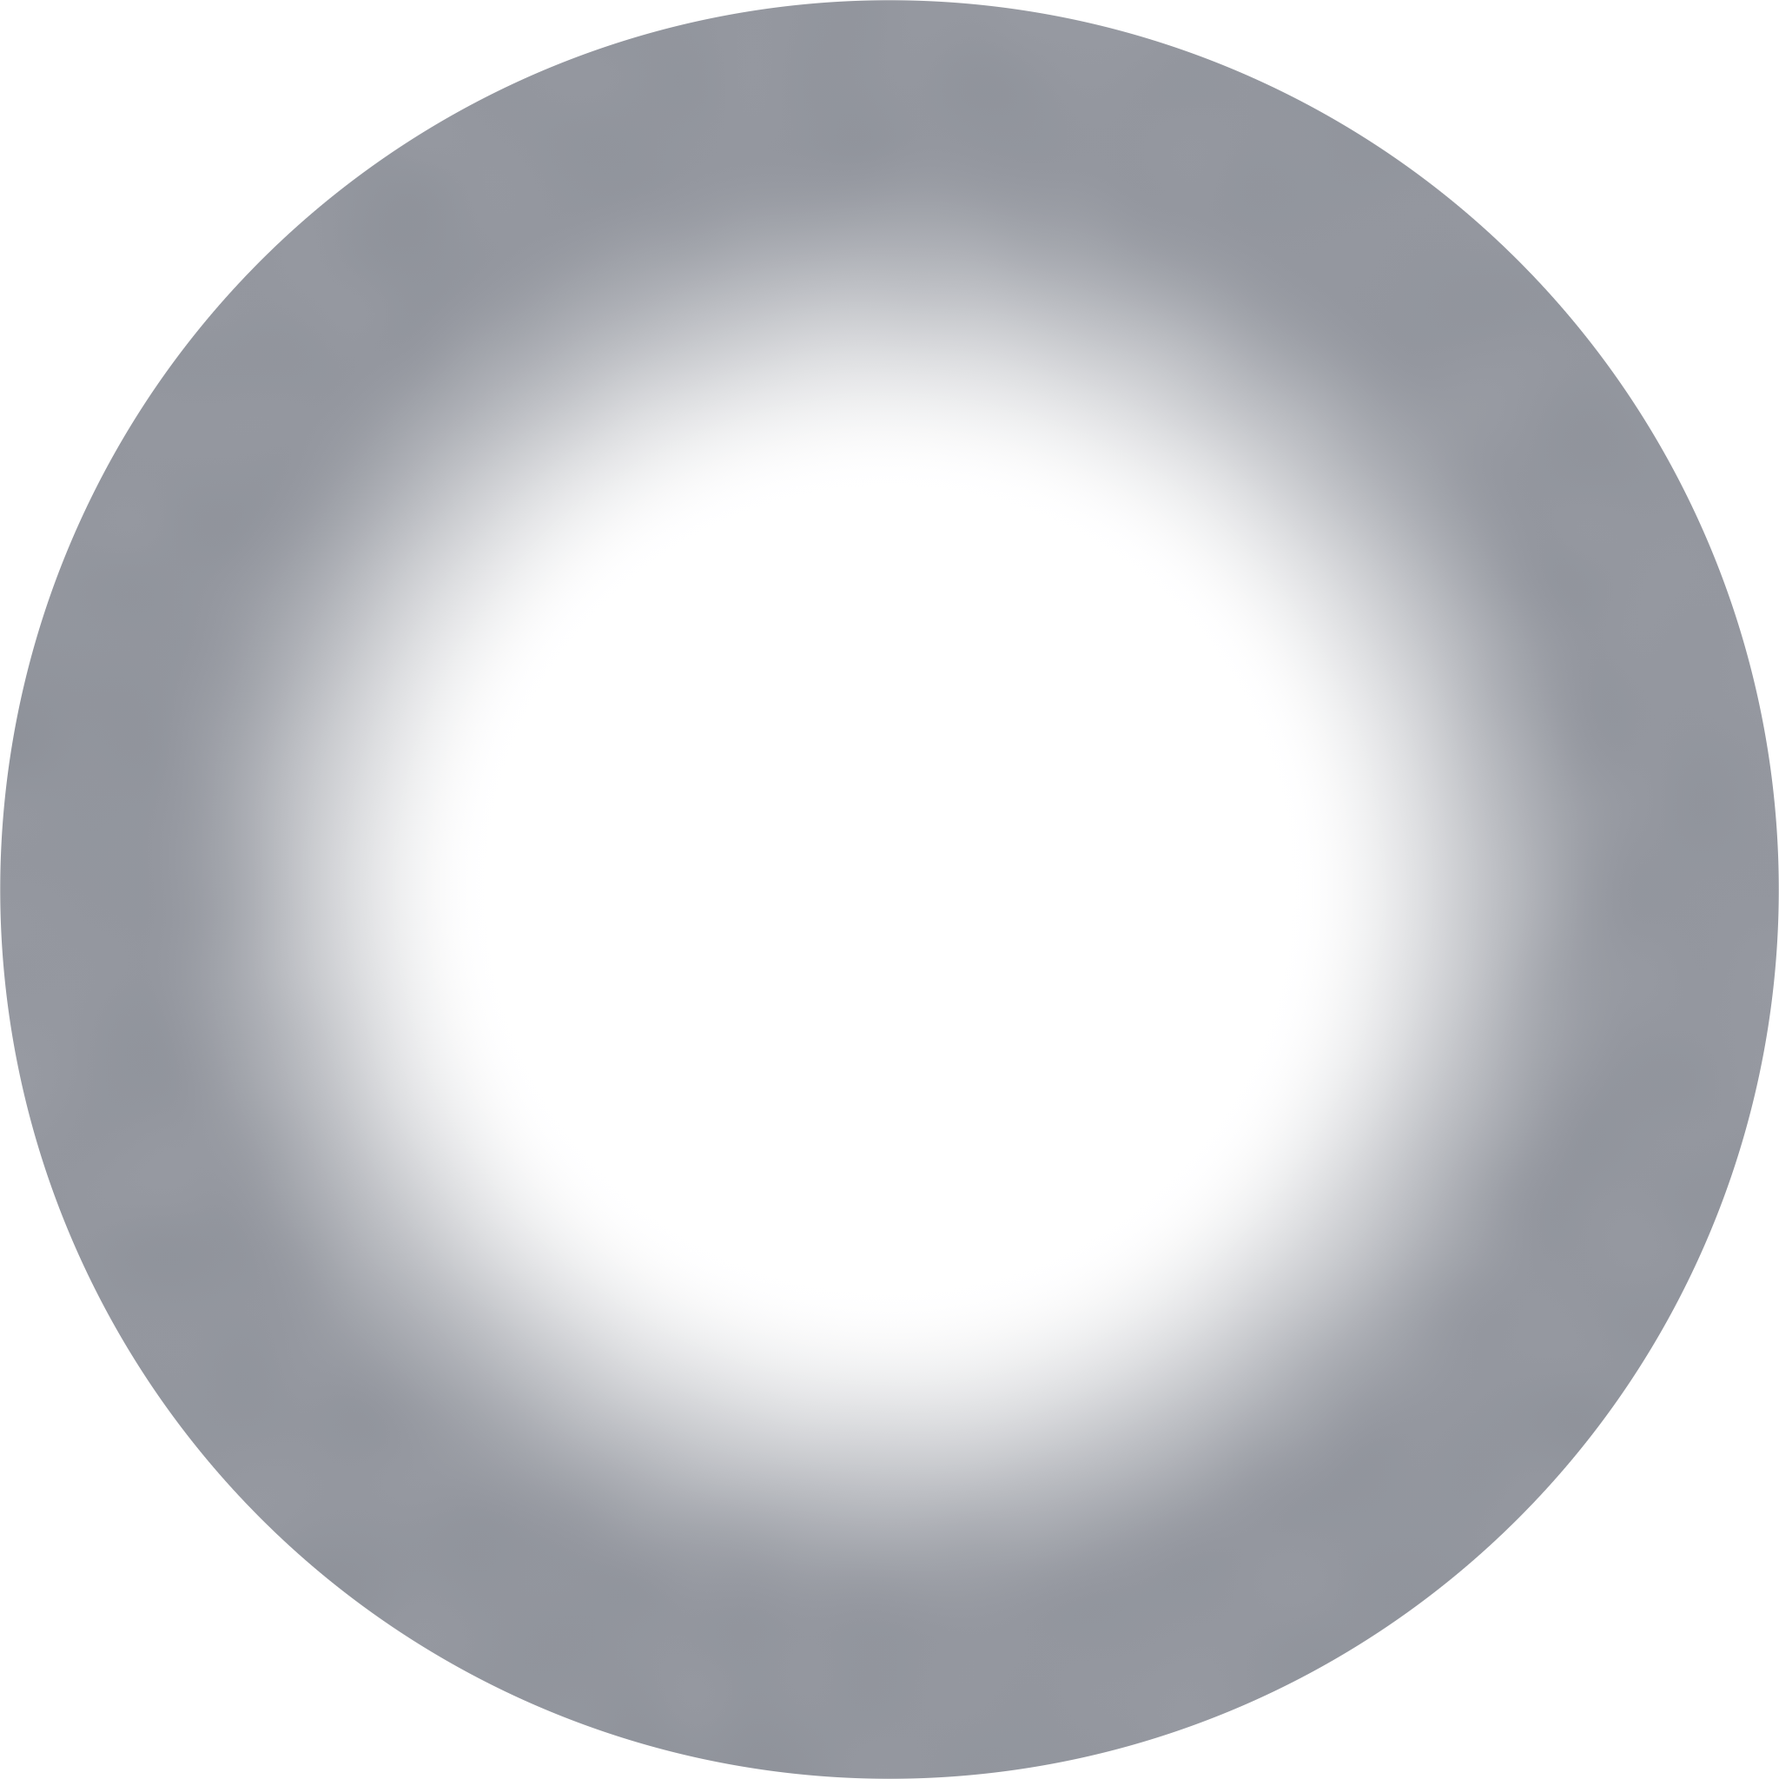
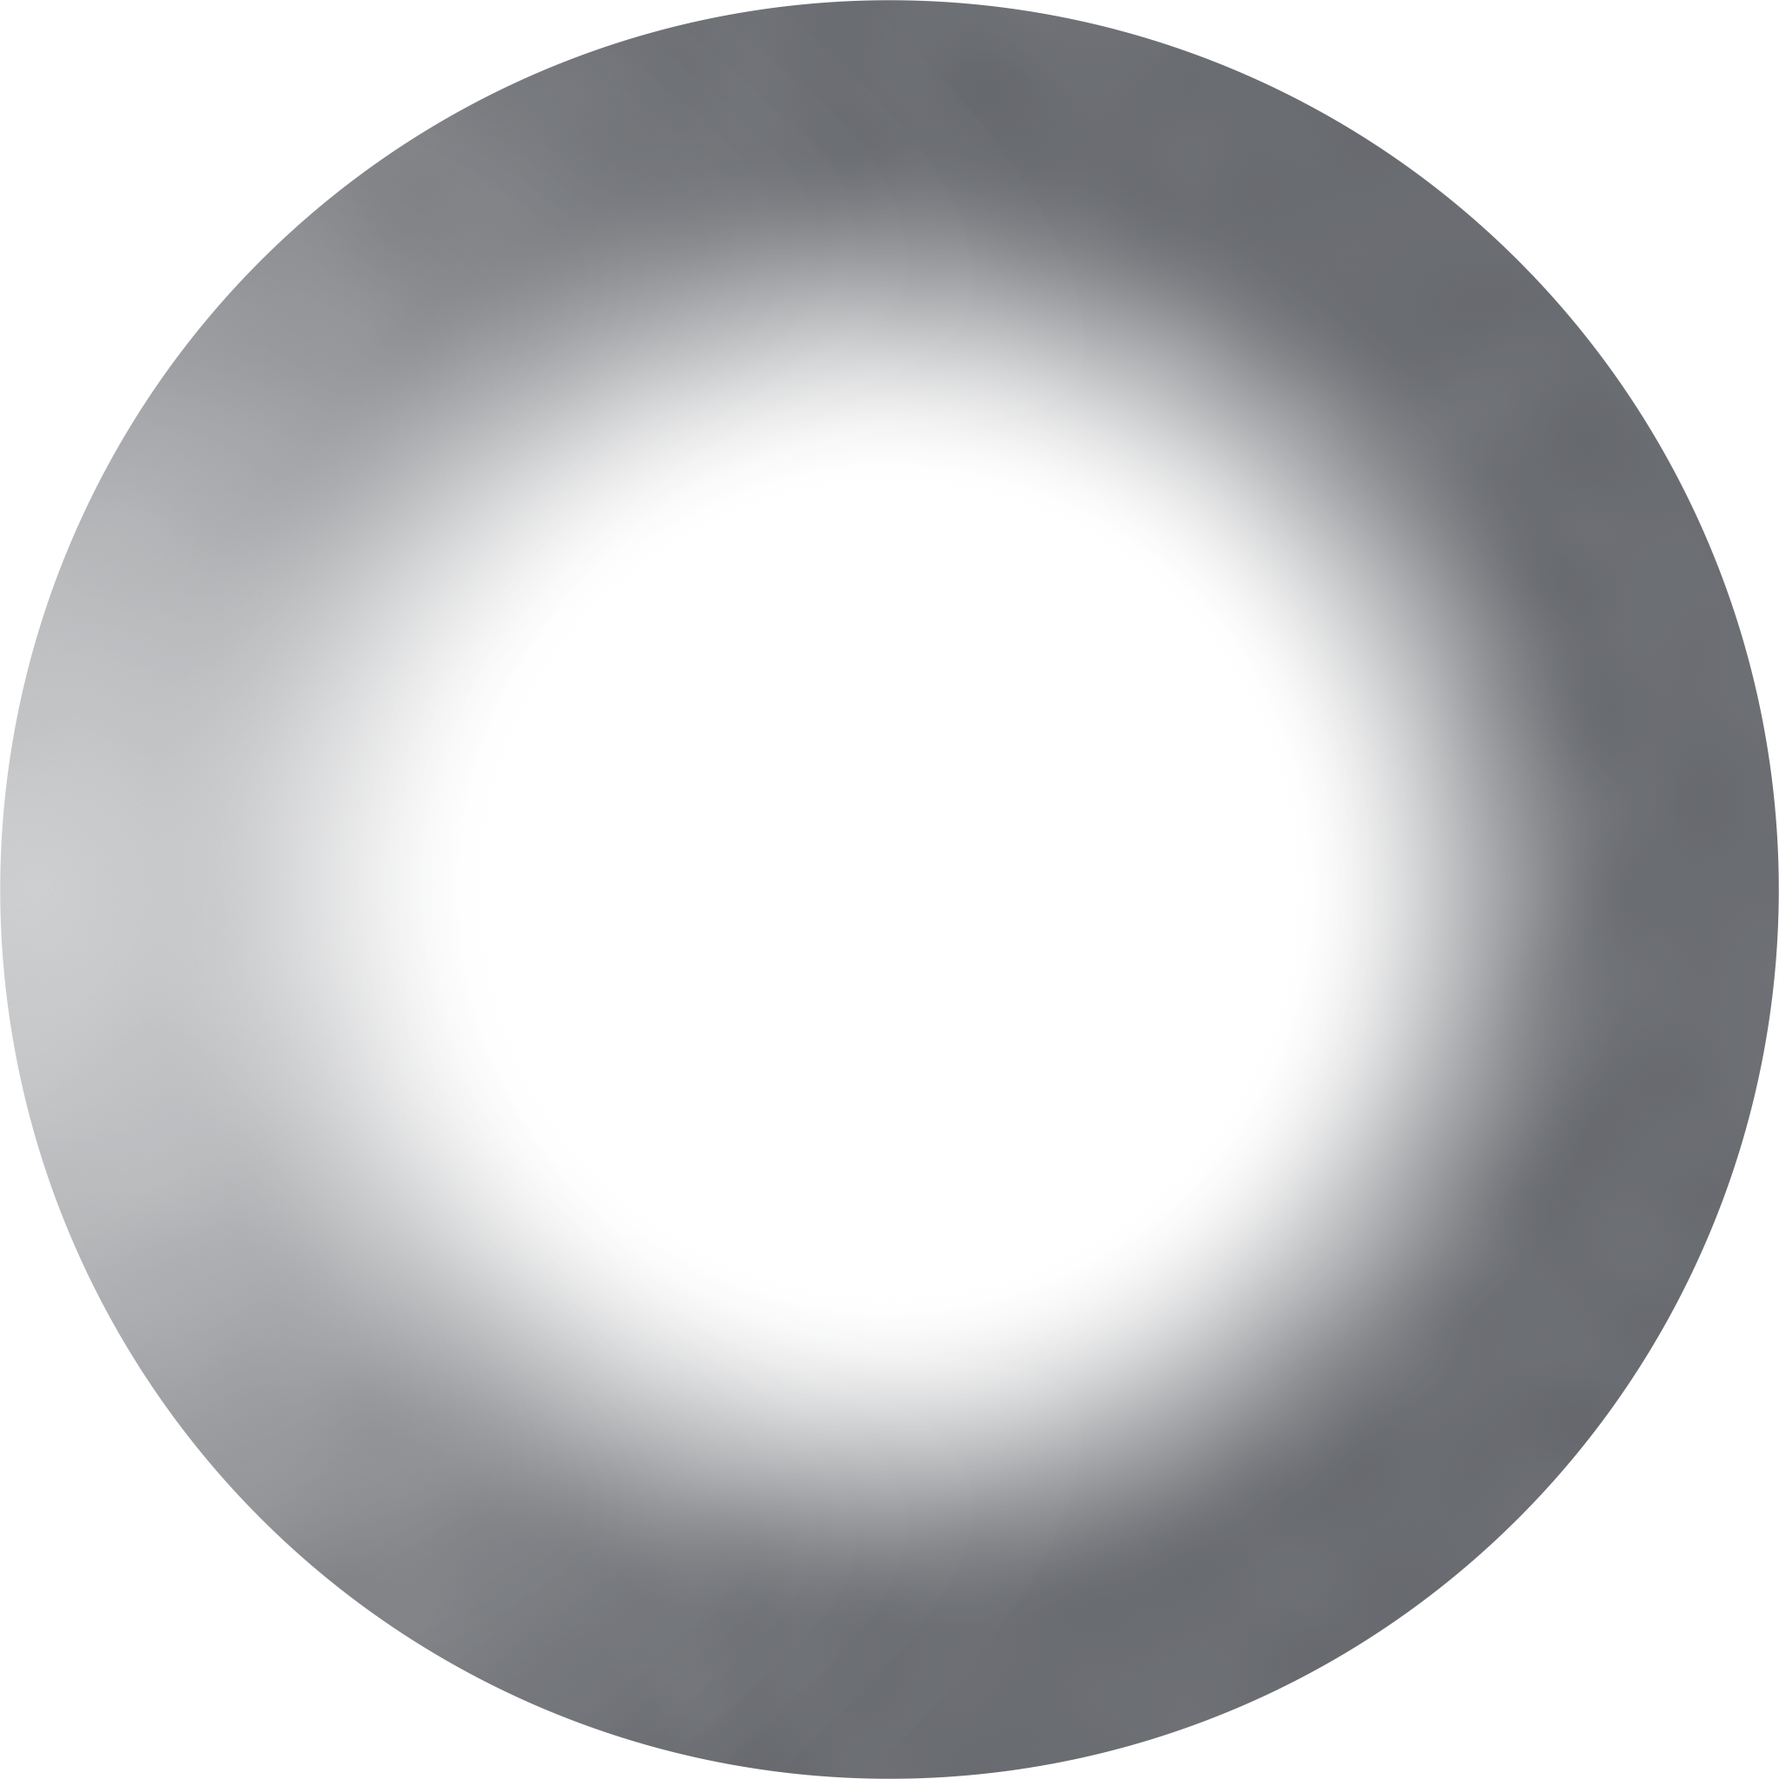
Favourites on the frame dial; dial and heart above the bottom vignette; new frost rim
- Heart (outline) at the top-right of the selected frame's box; filled
  rose when the frame is a favourite. Favourites last for the visit only.
- Bottom-right white outline heart with a red count badge: turns the dial
  to only the favourites and back. Fewer than 6 favourites don't loop round
  the dial (no repeats); frames liked through the assistant count too.
- Dial panel above the assistant overlay (z-45) and the favourites button
  above that (z-50), so the bottom vignette no longer dims them.
- Dial panel uses overflow: clip: a hidden overflow could be scrolled by
  focus / scrollIntoView and slid the whole dial sideways.
- wheel-frost-rim.png: hand-tuned version (rerunning
  scripts/make-wheel-frost.py would overwrite it).

diff --git a/src/components/FrameWheel.tsx b/src/components/FrameWheel.tsx
@@ -23,6 +23,7 @@ import { formatRupees, SHAPE_LABEL } from "@/components/voice/VoiceStageOverlay"
 import { SHOP_HDRI } from "@/lib/hdri";
 import { useTryOnStore } from "@/store/tryOnStore";
 import { useVoiceStore } from "@/store/voiceStore";
+import { useUiStore } from "@/store/uiStore";
 
 /*
  * The frame dial on the right edge of the mirror (the customer stands left).
@@ -38,6 +39,10 @@ import { useVoiceStore } from "@/store/voiceStore";
  */
 
 const N = FRAMES.length;
+/** Heart button on the selected box (px, = Tailwind h-7 w-7). */
+const HEART_SIZE = 28;
+/** Favourites loop round the dial only from this many (no repeats on screen). */
+const FILL_DIAL = 6;
 /** Angle between neighbouring frames on the ring (~22°: five fit on screen). */
 const STEP = 0.39;
 /**
@@ -191,11 +196,17 @@ type Slot = {
   sel: number;
 };
 
-function slotsAt(L: Layout, pos: number): Slot[] {
+/**
+ * The frames on the dial around `pos`. `list` is what the dial walks: the
+ * whole catalogue (loops round), or the customer's favourites — which only
+ * loop when there are enough of them to fill the dial without repeats.
+ */
+function slotsAt(L: Layout, pos: number, list: FrameSku[], wrap: boolean): Slot[] {
   const out: Slot[] = [];
   const base = Math.round(pos);
   for (let j = -3; j <= 3; j++) {
     const idx = base + j;
+    if (!wrap && (idx < 0 || idx >= list.length)) continue;
     const d = idx - pos;
     const ad = Math.abs(d);
     if (ad > 2.6) continue;
@@ -203,7 +214,7 @@ function slotsAt(L: Layout, pos: number): Slot[] {
     const sel = clamp01(1 - ad / 0.55);
     out.push({
       idx,
-      frame: FRAMES[mod(idx, N)],
+      frame: list[mod(idx, list.length)],
       // The selected frame steps out: a little left of the ring, a little bigger.
       x: x - SELECT_SHIFT * sel,
       y,
@@ -615,7 +626,20 @@ export function FrameWheel() {
   const setFrame = useTryOnStore((s) => s.setFrame);
   const setVariant = useTryOnStore((s) => s.setVariant);
   const frame = useTryOnStore((s) => s.selectedFrame());
-  const selIdx = Math.max(0, FRAMES.findIndex((f) => f.id === selectedFrameId));
+
+  // What the dial walks: every frame, or only this visit's favourites.
+  const favourites = useUiStore((s) => s.favouriteFrameIds);
+  const favMode = useUiStore((s) => s.showFavourites);
+  const favSet = useMemo(() => new Set(favourites), [favourites]);
+  const list = useMemo(
+    () => (favMode ? FRAMES.filter((f) => favSet.has(f.id)) : FRAMES),
+    [favMode, favSet],
+  );
+  const n = list.length;
+  // Favourites loop only when they fill the dial (6+) without repeats.
+  const wrap = !favMode || n >= FILL_DIAL;
+  const listIdx = list.findIndex((f) => f.id === selectedFrameId);
+  const selIdx = Math.max(0, listIdx);
 
   // Frames the assistant showed / the customer liked this visit.
   const suggestions = useVoiceStore((s) => s.suggestions);
@@ -660,26 +684,84 @@ export function FrameWheel() {
   /** Turn to an (unwrapped) dial position and put that frame on the face. */
   const commit = useCallback(
     (target: number) => {
-      targetRef.current = target;
+      if (n === 0) return;
+      const t = wrap ? target : Math.min(n - 1, Math.max(0, target));
+      targetRef.current = t;
       animate();
-      const f = FRAMES[mod(target, N)];
+      const f = list[mod(t, n)];
       if (f.id !== useTryOnStore.getState().selectedFrameId) setFrame(f.id);
     },
-    [animate, setFrame],
+    [animate, setFrame, list, n, wrap],
   );
+
+  // Switching between all frames and favourites (or the favourites changing)
+  // renumbers the dial: jump straight to the frame on the face, no spin.
+  const listRef = useRef(list);
+  useEffect(() => {
+    if (listRef.current === list) return;
+    listRef.current = list;
+    posRef.current = targetRef.current = selIdx;
+    setPos(selIdx);
+    invalidateRef.current?.();
+  }, [list, selIdx]);
+
+  // Favourites view: opening it puts the first favourite on (if the frame on
+  // the face isn't one); anything else putting a non-favourite on the face
+  // (the assistant) goes back to all frames.
+  const enteringFavRef = useRef(false);
+  useEffect(() => {
+    if (!favMode) return;
+    if (listIdx >= 0) {
+      enteringFavRef.current = false;
+      return;
+    }
+    if (enteringFavRef.current && n > 0) {
+      enteringFavRef.current = false;
+      setFrame(list[0].id);
+    } else {
+      useUiStore.getState().setShowFavourites(false);
+    }
+  }, [favMode, listIdx, list, n, setFrame]);
+
+  // Frames the customer liked through the assistant are favourites too.
+  useEffect(() => {
+    if (liked.size) useUiStore.getState().addFavourites([...liked]);
+  }, [liked]);
+
+  const toggleFavourite = (frameId: string) => {
+    const ui = useUiStore.getState();
+    // Un-hearting the frame on the face while viewing favourites: step to a
+    // neighbouring favourite first (the store drops back to all frames when
+    // none are left).
+    if (ui.showFavourites && ui.favouriteFrameIds.includes(frameId)) {
+      const i = list.findIndex((f) => f.id === frameId);
+      const rest = list.filter((f) => f.id !== frameId);
+      if (rest.length) setFrame(rest[Math.min(Math.max(i, 0), rest.length - 1)].id);
+    }
+    ui.toggleFavourite(frameId);
+  };
+  const toggleFavView = () => {
+    const ui = useUiStore.getState();
+    enteringFavRef.current = !ui.showFavourites;
+    ui.setShowFavourites(!ui.showFavourites);
+  };
 
   // Follow the frame on the face (the assistant, or a commit above): turn
   // the short way round to it.
   useEffect(() => {
+    if (listIdx < 0 || n === 0) return;
     const t = targetRef.current;
-    if (mod(Math.round(t), N) === selIdx) return;
-    const k = Math.round((t - selIdx) / N);
-    targetRef.current = selIdx + k * N;
+    if (mod(Math.round(t), n) === selIdx && (wrap || Math.round(t) === selIdx)) return;
+    const k = wrap ? Math.round((t - selIdx) / n) : 0;
+    targetRef.current = selIdx + k * n;
     animate();
-  }, [selIdx, animate]);
+  }, [selIdx, listIdx, n, wrap, animate]);
 
   const L = useMemo(() => computeLayout(size.W, size.H), [size.W, size.H]);
-  const slots = useMemo(() => (size.W > 0 ? slotsAt(L, pos) : []), [L, pos, size.W]);
+  const slots = useMemo(
+    () => (size.W > 0 && n > 0 ? slotsAt(L, pos, list, wrap) : []),
+    [L, pos, size.W, list, n, wrap],
+  );
   const stepPx = L.R * Math.sin(STEP);
 
   // Drag to turn: vertical movement, one frame per frame spacing.
@@ -734,11 +816,17 @@ export function FrameWheel() {
   const current = variants.find((v) => v.id === selectedVariantId) ?? variants[0];
 
   return (
+    <>
     <div
       ref={boxRef}
-      // Below the bottom controls (z-40) and click-through except for the
-      // disc and its buttons: the pills/message box near it stay clickable.
-      className="pointer-events-none absolute bottom-0 right-0 top-0 z-30 w-[clamp(21rem,38%,30rem)] touch-none select-none overflow-hidden"
+      // Above the assistant overlay (z-40) so its bottom vignette doesn't dim
+      // the dial; click-through except for the disc and its buttons. (Where
+      // the disc overlaps the pills / message box — narrow screens only —
+      // the disc now wins.)
+      // overflow-clip, not -hidden: a hidden overflow can still be scrolled
+      // (focus / scrollIntoView on a button near the edge slid the whole
+      // dial sideways); clip can't scroll at all.
+      className="pointer-events-none absolute bottom-0 right-0 top-0 z-[45] w-[clamp(21rem,38%,30rem)] touch-none select-none overflow-clip"
       onPointerDown={onPointerDown}
       onPointerMove={onPointerMove}
       onPointerUp={onPointerEnd}
@@ -906,9 +994,10 @@ export function FrameWheel() {
                     }`}
                   >
                     {/* Nothing before the name: it lines up with the details
-                        under it. A liked frame's heart follows the name. */}
+                        under it. A favourite's heart follows the name (the
+                        boxed frame has its own heart button instead). */}
                     <span className="line-clamp-2">{isProduct && product ? product.name : s.frame.name}</span>
-                    {liked.has(s.frame.id) ? (
+                    {!boxed && favSet.has(s.frame.id) ? (
                       <svg viewBox="0 0 24 24" className="h-3.5 w-3.5 shrink-0 text-rose-500" fill="currentColor" aria-label="पसंद">
                         <path d={HEART} />
                       </svg>
@@ -932,8 +1021,81 @@ export function FrameWheel() {
             currentId={current.id}
             onPick={setVariant}
           />
+
+          {/* Heart in the selected box's top-right corner: outline, filled
+              once the frame is a favourite. Rides with the box, and stacks
+              above everything else in the dial (3D previews, labels). */}
+          {slots
+            .filter((s) => s.sel > 0.5)
+            .map((s) => {
+              const grow = 1 + SELECT_GROW * s.sel;
+              const fav = favSet.has(s.frame.id);
+              return (
+                <button
+                  key={`heart-${s.idx}`}
+                  type="button"
+                  onClick={() => toggleFavourite(s.frame.id)}
+                  aria-pressed={fav}
+                  aria-label={fav ? "पसंदीदा से हटाएँ" : "पसंदीदा में जोड़ें"}
+                  className="pointer-events-auto absolute z-20 grid h-7 w-7 place-items-center rounded-full transition-transform active:scale-90"
+                  style={{
+                    // Box: left = x − (pad + frameW/2)·grow, width = box.w·grow.
+                    left: s.x - (BOX_PAD + L.frameW / 2) * grow + L.box.w * grow - HEART_SIZE - 4,
+                    top: s.y - (L.box.h * grow) / 2 + 4,
+                    opacity: s.sel * s.opacity,
+                  }}
+                >
+                  <svg
+                    viewBox="0 0 24 24"
+                    className={`h-[18px] w-[18px] ${fav ? "text-rose-500" : "text-zinc-500"}`}
+                    fill={fav ? "currentColor" : "none"}
+                    stroke="currentColor"
+                    strokeWidth={fav ? 0 : 1.8}
+                    strokeLinejoin="round"
+                    aria-hidden
+                  >
+                    <path d={HEART} />
+                  </svg>
+                </button>
+              );
+            })}
         </>
       ) : null}
     </div>
+      {/* Favourites: bottom-right corner of the mirror. A white outline
+          heart with a red count badge; turns the dial to only the favourites
+          and back (a soft white disc behind the heart while they're
+          showing). Outside the dial's layer and above the assistant overlay
+          (z-40), whose bottom vignette otherwise greys it. */}
+      <button
+        type="button"
+        onClick={toggleFavView}
+        disabled={favourites.length === 0}
+        aria-pressed={favMode}
+        aria-label={favMode ? "सभी फ्रेम दिखाएँ" : "पसंदीदा फ्रेम दिखाएँ"}
+        className={`pointer-events-auto absolute bottom-3 right-3 z-50 grid h-14 w-14 place-items-center rounded-full text-white transition sm:bottom-4 sm:right-4 ${
+          favMode ? "bg-white/20 ring-1 ring-white/60" : ""
+        }`}
+      >
+        <svg
+          viewBox="0 0 24 24"
+          // Bold line, light shadow: a thin outline's anti-aliased edges plus
+          // a dark halo read as grey next to the white selection box.
+          className="h-8 w-8 drop-shadow-[0_1px_1.5px_rgba(0,0,0,0.35)]"
+          fill="none"
+          stroke="currentColor"
+          strokeWidth={2.6}
+          strokeLinejoin="round"
+          aria-hidden
+        >
+          <path d={HEART} />
+        </svg>
+        {favourites.length > 0 ? (
+          <span className="absolute right-0.5 top-0.5 grid h-[18px] min-w-[18px] place-items-center rounded-full bg-red-500 px-1 text-[11px] font-semibold leading-none text-white tabular-nums shadow">
+            {favourites.length}
+          </span>
+        ) : null}
+      </button>
+    </>
   );
 }

diff --git a/src/store/uiStore.ts b/src/store/uiStore.ts
@@ -93,6 +93,13 @@ type UiState = {
    * (TryOnCanvas.tsx) — frees GPU time for the tracker. Staff option.
    */
   paceRenderToCamera: boolean;
+  /**
+   * Frames the customer hearted this visit (catalogue ids). Not saved: on a
+   * shared kiosk the next customer starts with an empty list.
+   */
+  favouriteFrameIds: string[];
+  /** The dial shows only the favourites. */
+  showFavourites: boolean;
   /** Live readout from the running tracker (staff panel). */
   trackerStats: TrackerStats | null;
   setStaffMode: (on: boolean) => void;
@@ -100,6 +107,9 @@ type UiState = {
   setSyncDisplay: (on: boolean) => void;
   setDetectEngine: (engine: DetectEngine) => void;
   setPaceRenderToCamera: (on: boolean) => void;
+  toggleFavourite: (frameId: string) => void;
+  addFavourites: (frameIds: string[]) => void;
+  setShowFavourites: (on: boolean) => void;
   setPredictFromCapture: (on: boolean) => void;
   setLowLagSmoothing: (on: boolean) => void;
   setTrackerStats: (stats: TrackerStats | null) => void;
@@ -116,6 +126,8 @@ export const useUiStore = create<UiState>((set) => ({
   lowLagSmoothing: DEFAULT_LOW_LAG,
   detectEngine: "worker-cpu",
   paceRenderToCamera: DEFAULT_PACE,
+  favouriteFrameIds: [],
+  showFavourites: false,
   trackerStats: null,
   setStaffMode: (on) => {
     persistFlag(STAFF_KEY, on);
@@ -127,6 +139,21 @@ export const useUiStore = create<UiState>((set) => ({
     setFrameSyncMode(on);
     set({ syncDisplay: on });
   },
+  toggleFavourite: (frameId) =>
+    set((s) => {
+      const has = s.favouriteFrameIds.includes(frameId);
+      const favouriteFrameIds = has
+        ? s.favouriteFrameIds.filter((id) => id !== frameId)
+        : [...s.favouriteFrameIds, frameId];
+      // Nothing left to show: back to all frames.
+      return { favouriteFrameIds, showFavourites: s.showFavourites && favouriteFrameIds.length > 0 };
+    }),
+  addFavourites: (frameIds) =>
+    set((s) => {
+      const add = frameIds.filter((id) => !s.favouriteFrameIds.includes(id));
+      return add.length ? { favouriteFrameIds: [...s.favouriteFrameIds, ...add] } : {};
+    }),
+  setShowFavourites: (on) => set((s) => ({ showFavourites: on && s.favouriteFrameIds.length > 0 })),
   setPredictFromCapture: (on) => {
     saveFlag(PREDICT_KEY, on, DEFAULT_PREDICT_FROM_CAPTURE);
     set({ predictFromCapture: on });
